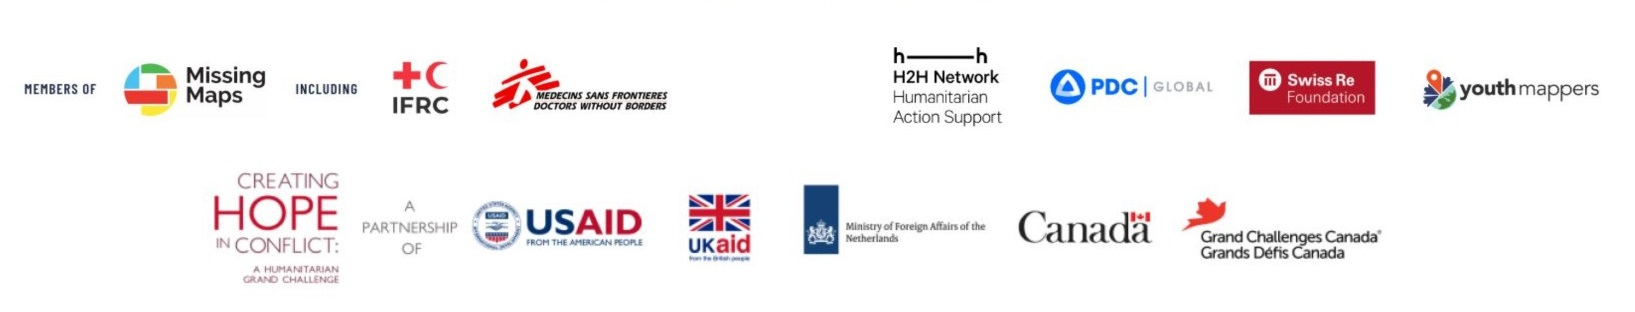
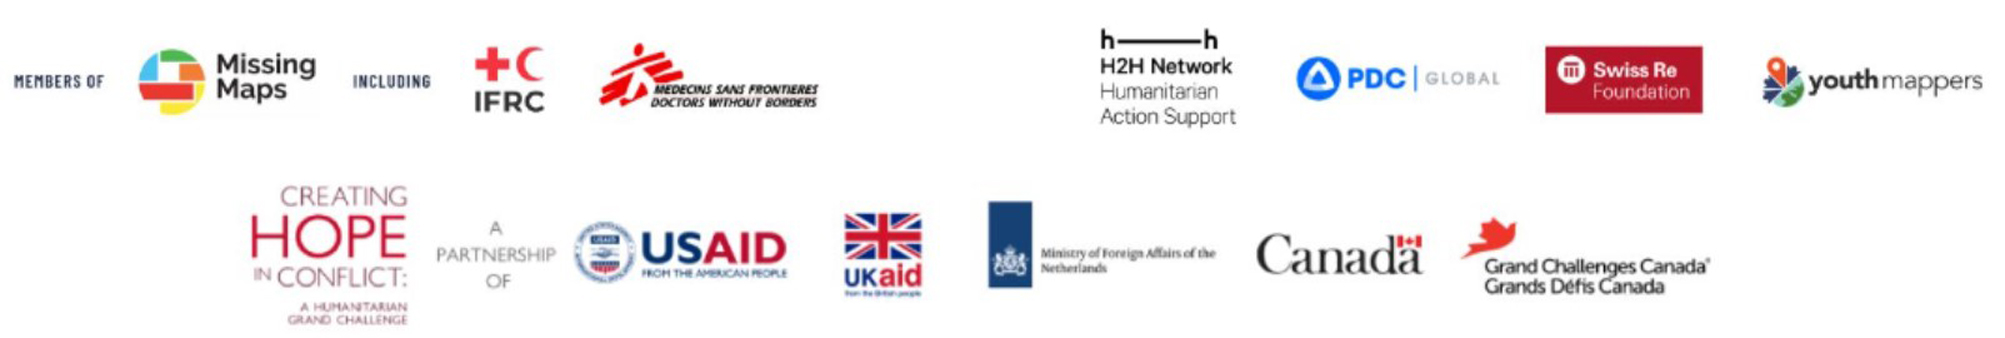
image resizes, addtl copy edits

diff --git a/config.js b/config.js
@@ -696,7 +696,7 @@ var config = {
             hidden: false,
             title: 'Mapping the Chepang Community',
             image: '',
-            description: '<h4 class="impact-head">Impact Areas:</h4> <strong>Sustainable Cities and communities</strong> <img style="width: auto; vertical-align: middle;" src="images/icons/city.png" height="35" width="35" /><br /><strong>Disasters and climate resilence</strong><img style="width: auto; vertical-align: middle;" src="images/icons/disaster.png" height="35" width="35" /><br /><strong>Public Health</strong><img style="width: auto; vertical-align: middle;" src="images/icons/health.png" height="35" width="35" />' + '<h3></h3>' + 'Chepangs are one of the most marginalized Indigenous communities in Nepal. Traditionally nomadic people who relied on hunting, fishing and the products of the forest, these ways of life were brought to an end by the introduction of new government policies.' + 'Restrictions on hunting, gathering and clearing of forest patches have forced the Chepangs to adopt a settled way of life. This change of lifestyle has brought extreme poverty in their community and made it difficult for the Chepangs to access basic amenities such as nutritious food, proper housing, safe drinking water, education and healthcare.' + '<br /><br />' + '<div class="video-container"><iframe width="100%" height="100%" src="https://www.youtube.com/embed/b0Hm_sY_AIU" frameBorder="0"></iframe></div><span class="photocaption">Video produced by Geomatics Enginering Society (GES)</span>' + 'The Geomatics Engineering Society (GES) project centered around mapping in the remote hills of central Nepal and sought to generate data to assess the needs of the Chepang community.',
+            description: '<h4 class="impact-head">Impact Areas:</h4> <strong>Sustainable Cities and communities</strong> <img style="width: auto; vertical-align: middle;" src="images/icons/city.png" height="35" width="35" /><br /><strong>Disasters and climate resilence</strong><img style="width: auto; vertical-align: middle;" src="images/icons/disaster.png" height="35" width="35" /><br /><strong>Public Health</strong><img style="width: auto; vertical-align: middle;" src="images/icons/health.png" height="35" width="35" />' + '<h3></h3>' + 'Chepangs are one of the most marginalized Indigenous communities in Nepal. Traditionally nomadic people who relied on hunting, fishing and the products of the forest, these ways of life were brought to an end by the introduction of new government policies.' + 'Restrictions on hunting, gathering and clearing of forest patches have forced the Chepangs to adopt a settled way of life. This change of lifestyle has brought extreme poverty in their community and made it difficult for the Chepangs to access basic amenities such as nutritious food, proper housing, safe drinking water, education and healthcare.' + '<br /><br />' + '<div class="video-container"><iframe width="100%" height="100%" src="https://www.youtube.com/embed/b0Hm_sY_AIU" frameBorder="0"></iframe></div><span class="photocaption">Video produced by Geomatics Enginering Society (GES)</span>' + '<a href="http://ges.ku.edu.np/" target="_blank">The Geomatics Engineering Society (GES)</a> project centered around mapping in the remote hills of central Nepal and sought to generate data to assess the needs of the Chepang community.',
             location: {
               center: [84.840127, 27.551346],
               zoom: 16,
@@ -850,7 +850,7 @@ var config = {
             hidden: false,
             title: 'West and Northern Africa Hub Launch',
             image: '',
-            description: 'Continuing the rolling out of the Regional Open Mapping Hubs, the West and Northern Africa Open Mapping Hub opened its doors in March 2022 to support open mapping activities in the region, led by Regional Director, Ibrahima Cisse.' + '<br /><br />' + '<div class="video-container"><iframe width="100%" height="100%" src="https://www.youtube.com/embed/WBG-A4VNYpo" frameBorder="0"></iframe></div>' + '<br /><br />' + 'The Hub will focus on humanitarian and community development mapping and will work with humanitarian organizations, governments, civil society, private operators, institutions, and other actors on the use of OSM tools that support disaster risk reduction and response, gender equality, sustainable cities, public health, and displacement and safe migration.' + '<br /><br />' + 'The Hub will also support local mapping communities in the region by facilitating knowledge exchanges, distributing funding, and providing training and support with the goal of massively scaling local edits to OSM.',
+            description: 'Continuing the rolling out of the Regional Open Mapping Hubs, the West and Northern Africa Open Mapping Hub opened its doors in March 2022 to support open mapping activities in the region, led by Regional Director, Ibrahima Cisse.' + '<br /><br />' + '<div class="video-container"><iframe width="100%" height="100%" src="https://www.youtube.com/embed/WBG-A4VNYpo" frameBorder="0"></iframe></div><span class="photocaption">Video courtesy of Agence de Presse Africaine</span>' + '<br /><br />' + 'The Hub will focus on humanitarian and community development mapping and will work with humanitarian organizations, governments, civil society, private operators, institutions, and other actors on the use of OSM tools that support disaster risk reduction and response, gender equality, sustainable cities, public health, and displacement and safe migration.' + '<br /><br />' + 'The Hub will also support local mapping communities in the region by facilitating knowledge exchanges, distributing funding, and providing training and support with the goal of massively scaling local edits to OSM.',
             location: {
               center: [-1.701088, 13.784610],
               zoom: 4.1,
@@ -1178,7 +1178,7 @@ var config = {
               hidden: false,
               title: 'Key Results',
               image: '',
-              description: 'Together, the interns mapped and validated 74 projects across 12 countries including:' + '<br /><br />' + '<div class="flourish-embed" data-src="visualisation/10625782"></div>' + 'This involved working remotely in teams of 4-5 and coordinating approaches and sharing best practices.',
+              description: 'Together, the interns mapped and validated 74 projects across 12 countries including:' + '<br /><br />' + '<div class="flourish-embed" data-src="visualisation/10625782"></div>' + 'This involved working remotely in teams of 4-5 and coordinating approaches and sharing best practices.' + '<h3></h3>' + 'The HOT Data Quality Internship supported by <a href="https://www.meta.com/" target="_blank">Meta</a>. Special thanks to <a href="https://www.mapbox.com/" target="_blank">Mapbox</a>, The <a href="https://www.osgeo.org/" target="_blank">Open Source Geospatial Foundation</a> and <a href="https://www.kontur.io/" target="_blank">Kontur</a> for providing training',
               location: {
                 center: [-58.401371, 4.361681],
                 zoom: 2.75,
@@ -1296,7 +1296,7 @@ var config = {
                 hidden: false,
                 title: '',
                 image: '',
-                description: '<img style="float:left; width: auto; padding: 0 25px 25px 0;" src="images/dataqual/choolwe_zambia.jpg" />“I have learned a lot of advanced tricks in JOSM such as how to draw multi-polygons. These techniques will help me map features accurately and improve the quality of data I add on maps. I also intend to share all the techniques I have learned so far with the local youth mappers in my country.” <p style="text-align: right;">&dash; Choolwe Hamama, Zambia</p>' + '<h3></h3>' + 'The HOT Data Quality Internship supported by <a href="https://www.meta.com/" target="_blank">Meta</a>. Special thanks to <a href="https://www.mapbox.com/" target="_blank">Mapbox</a>, The <a href="https://www.osgeo.org/" target="_blank">Open Source Geospatial Foundation</a> and <a href="https://www.kontur.io/" target="_blank">Kontur</a> for providing training',
+                description: '<img style="float:left; width: auto; padding: 0 25px 25px 0;" src="images/dataqual/choolwe_zambia.jpg" />“I have learned a lot of advanced tricks in JOSM such as how to draw multi-polygons. These techniques will help me map features accurately and improve the quality of data I add on maps. I also intend to share all the techniques I have learned so far with the local youth mappers in my country.” <p style="text-align: right;">&dash; Choolwe Hamama, Zambia</p>',
                 location: {
                   center: [27.50826, -14.41302],
                   zoom: 6,
@@ -1391,7 +1391,7 @@ var config = {
             hidden: false,
             title: 'The Galaxy Project',
             image: '',
-            description: 'HOT Tech aims to provide tools that enable anyone to edit and use open map data in an accessible and inclusive way. The Galaxy project aims to get OSM map data and map data insights, like statistics and data quality, into the right hands at the right time.' + '<br /><br />' + 'For our least technical users, Galaxy delivers a lightweight web portal to map data customizable for download in multiple formats for any user, anywhere in the world.' + '<br /><br />' + 'Users can explore mapathon leaderboards, mapper statistics and data quality to track and motivate their own OSM journey.' + '<br /><br />' + 'The galaxy project also enables us to continuously improve existing tools, such as HOT’s Export tool. Most recently, components of Galaxy have contributed to faster results, seamless integrations and data that users can depend on.' + '<div class="video-container"><iframe width="100%" height="100%" src="https://www.youtube.com/embed/5NNlMv0ClBM" frameBorder="0"></iframe></div>',
+            description: '<a href="https://galaxy.hotosm.org//" target="_blank">HOT Tech</a> aims to provide tools that enable anyone to edit and use open map data in an accessible and inclusive way. The Galaxy project aims to get OSM map data and map data insights, like statistics and data quality, into the right hands at the right time.' + '<br /><br />' + 'For our least technical users, Galaxy delivers a lightweight web portal to map data customizable for download in multiple formats for any user, anywhere in the world.' + '<br /><br />' + 'Users can explore mapathon leaderboards, mapper statistics and data quality to track and motivate their own OSM journey.' + '<br /><br />' + 'The galaxy project also enables us to continuously improve existing tools, such as HOT’s Export tool. Most recently, components of Galaxy have contributed to faster results, seamless integrations and data that users can depend on.' + '<div class="video-container"><iframe width="100%" height="100%" src="https://www.youtube.com/embed/5NNlMv0ClBM" frameBorder="0"></iframe></div>',
             location: {
               center: [-8.68740, 23.01151],
               zoom: 2.5,
@@ -1414,7 +1414,7 @@ var config = {
             hidden: false,
             title: 'Tasking Manager - a Collective Effort',
             image: '',
-            description: 'The Tasking Manager is HOT’s flagship mapping tool. It allows division of a large mapping project into smaller tasks that can be completed rapidly and collaboratively, with many people contributing to a collective project goal.' + '<br /><br />' + 'The HOT tech team is committed to a future of more collective and localized technologies.To put our words into action we want to nurture and invest in the contributors, makers, tinkerers and users to maintain, evolve and grow just and collective humanitarian open mapping tech. By igniting a community of techies, we strive for better tools created for, with and by local mappers and map users. We work collectively with partners and communities globally, and emphasize collaboration with organizations and groups within HOT’s priority countries.' + '<br /><br />' + 'In 2021, Kathmandu Living Labs (KLL) joined us to pioneer this collective approach. KLL is a leading civic-tech company based out of Nepal and has been working in the Open Mapping movement since 2013. As a social enterprise, KLL provides data and technology solutions to governments, development partners, business and civil society. In collaboration with the HOT tech team and the Tasking Manager community, KLL contributes to the maintenance and evolution of HOT’s most well-known product, the HOT Tasking Manager. Each month, we sit down with KLL to identify and prioritize the issues the Tasking Manager collective feel will best stabilize, secure and  strengthen the product for its global community of mapping volunteers. These issues are publicly available for comment and conversation through a public project repository through github. KLL then tackles and resolves these issues to deliver fixes, features and enhancements before they are deployed for the Tasking Manager collective and the wider HOT and OSM communities.' + '<div class="video-container"><iframe width="100%" height="100%" src="https://www.youtube.com/embed/JPTjsYBQ0Uk" frameBorder="0"></iframe></div>',
+            description: '<a href="https://tasks.hotosm.org/" target="_blank">The Tasking Manager</a> is HOT’s flagship mapping tool. It allows division of a large mapping project into smaller tasks that can be completed rapidly and collaboratively, with many people contributing to a collective project goal.' + '<br /><br />' + 'The HOT tech team is committed to a future of more collective and localized technologies.To put our words into action we want to nurture and invest in the contributors, makers, tinkerers and users to maintain, evolve and grow just and collective humanitarian open mapping tech. By igniting a community of techies, we strive for better tools created for, with and by local mappers and map users. We work collectively with partners and communities globally, and emphasize collaboration with organizations and groups within HOT’s priority countries.' + '<br /><br />' + 'In 2021, <a href="https://www.kathmandulivinglabs.org/" target="_blank">Kathmandu Living Labs (KLL)</a> joined us to pioneer this collective approach. KLL is a leading civic-tech company based out of Nepal and has been working in the Open Mapping movement since 2013. As a social enterprise, KLL provides data and technology solutions to governments, development partners, business and civil society. In collaboration with the HOT tech team and the Tasking Manager community, KLL contributes to the maintenance and evolution of HOT’s most well-known product, the HOT Tasking Manager. Each month, we sit down with KLL to identify and prioritize the issues the Tasking Manager collective feel will best stabilize, secure and  strengthen the product for its global community of mapping volunteers. These issues are publicly available for comment and conversation through a public project repository through github. KLL then tackles and resolves these issues to deliver fixes, features and enhancements before they are deployed for the Tasking Manager collective and the wider HOT and OSM communities.' + '<div class="video-container"><iframe width="100%" height="100%" src="https://www.youtube.com/embed/JPTjsYBQ0Uk" frameBorder="0"></iframe></div>',
             location: {
               center: [-8.68740, 23.01151],
               zoom: 2.5,
@@ -1437,7 +1437,7 @@ var config = {
             hidden: false,
             title: 'SPECIAL THANKS TO OUR 2021-2022 MISSION CRITICAL PARTNERS*',
             image: '',
-            description: '<h4>HUMANITARIAN IMPACT PARTNERS</h4><img src="images/human_impact_partners.jpg" style="width: 70%; text-align: center;" />' + '<br /><br />' + '<h4>CORPORATE PARTNERS</h4><img src="images/corporate-logos.jpg" style="width: 70%; text-align: center;" />' + '<br /><br />' + '<h4>WITH SPECIAL THANKS TO OUR AUDACIOUS DONORS</h4><img src="images/individuals.jpg" style="width: 70%; text-align: center;" /><p class="photocaption" style="font-size:0.7em;"><sup>*</sup> - Based on the size of data contributions, and/or funding support</p>' + '<br /><br />' + '<h3>ANNUAL EXPENDITURES</h3>' + '<div class="flourish-embed flourish-chart" data-src="visualisation/10779166"></div>',
+            description: '<h4>HUMANITARIAN IMPACT PARTNERS</h4><img src="images/human_impact_partners.jpg" style="width: 80%; text-align: center;" />' + '<br /><br />' + '<h4>CORPORATE PARTNERS</h4><img src="images/corporate-logos.jpg" style="width: 70%; text-align: center;" />' + '<br /><br />' + '<h4>WITH SPECIAL THANKS TO OUR AUDACIOUS DONORS</h4><img src="images/individuals.jpg" style="width: 70%; text-align: center;" /><p class="photocaption" style="font-size:0.7em;"><sup>*</sup> - Based on the size of data contributions, and/or funding support</p>' + '<br /><br />' + '<h3>ANNUAL EXPENDITURES</h3>' + '<div class="flourish-embed flourish-chart" data-src="visualisation/10779166"></div>',
             location: {
               center: [-8.68740, 23.01151],
               zoom: 2.5,

diff --git a/css/style.css b/css/style.css
@@ -390,7 +390,14 @@ h4.impact-head {
 @media (max-width: 768px) {
 .header-nav-bar
 	{
-	font-size: 1em;
+	font-size: 0.9em;
+}
+}
+
+@media (max-width: 425px) {
+.header-nav-bar
+	{
+	display: none;
 }
 }
 
@@ -408,6 +415,12 @@ h4.impact-head {
 .header-nav-bar ul
 	{
 	margin-top: 15px;
+}
+}
+@media (max-width: 425px) {
+.header-nav-bar ul
+	{
+	display: none;
 }
 }
 
